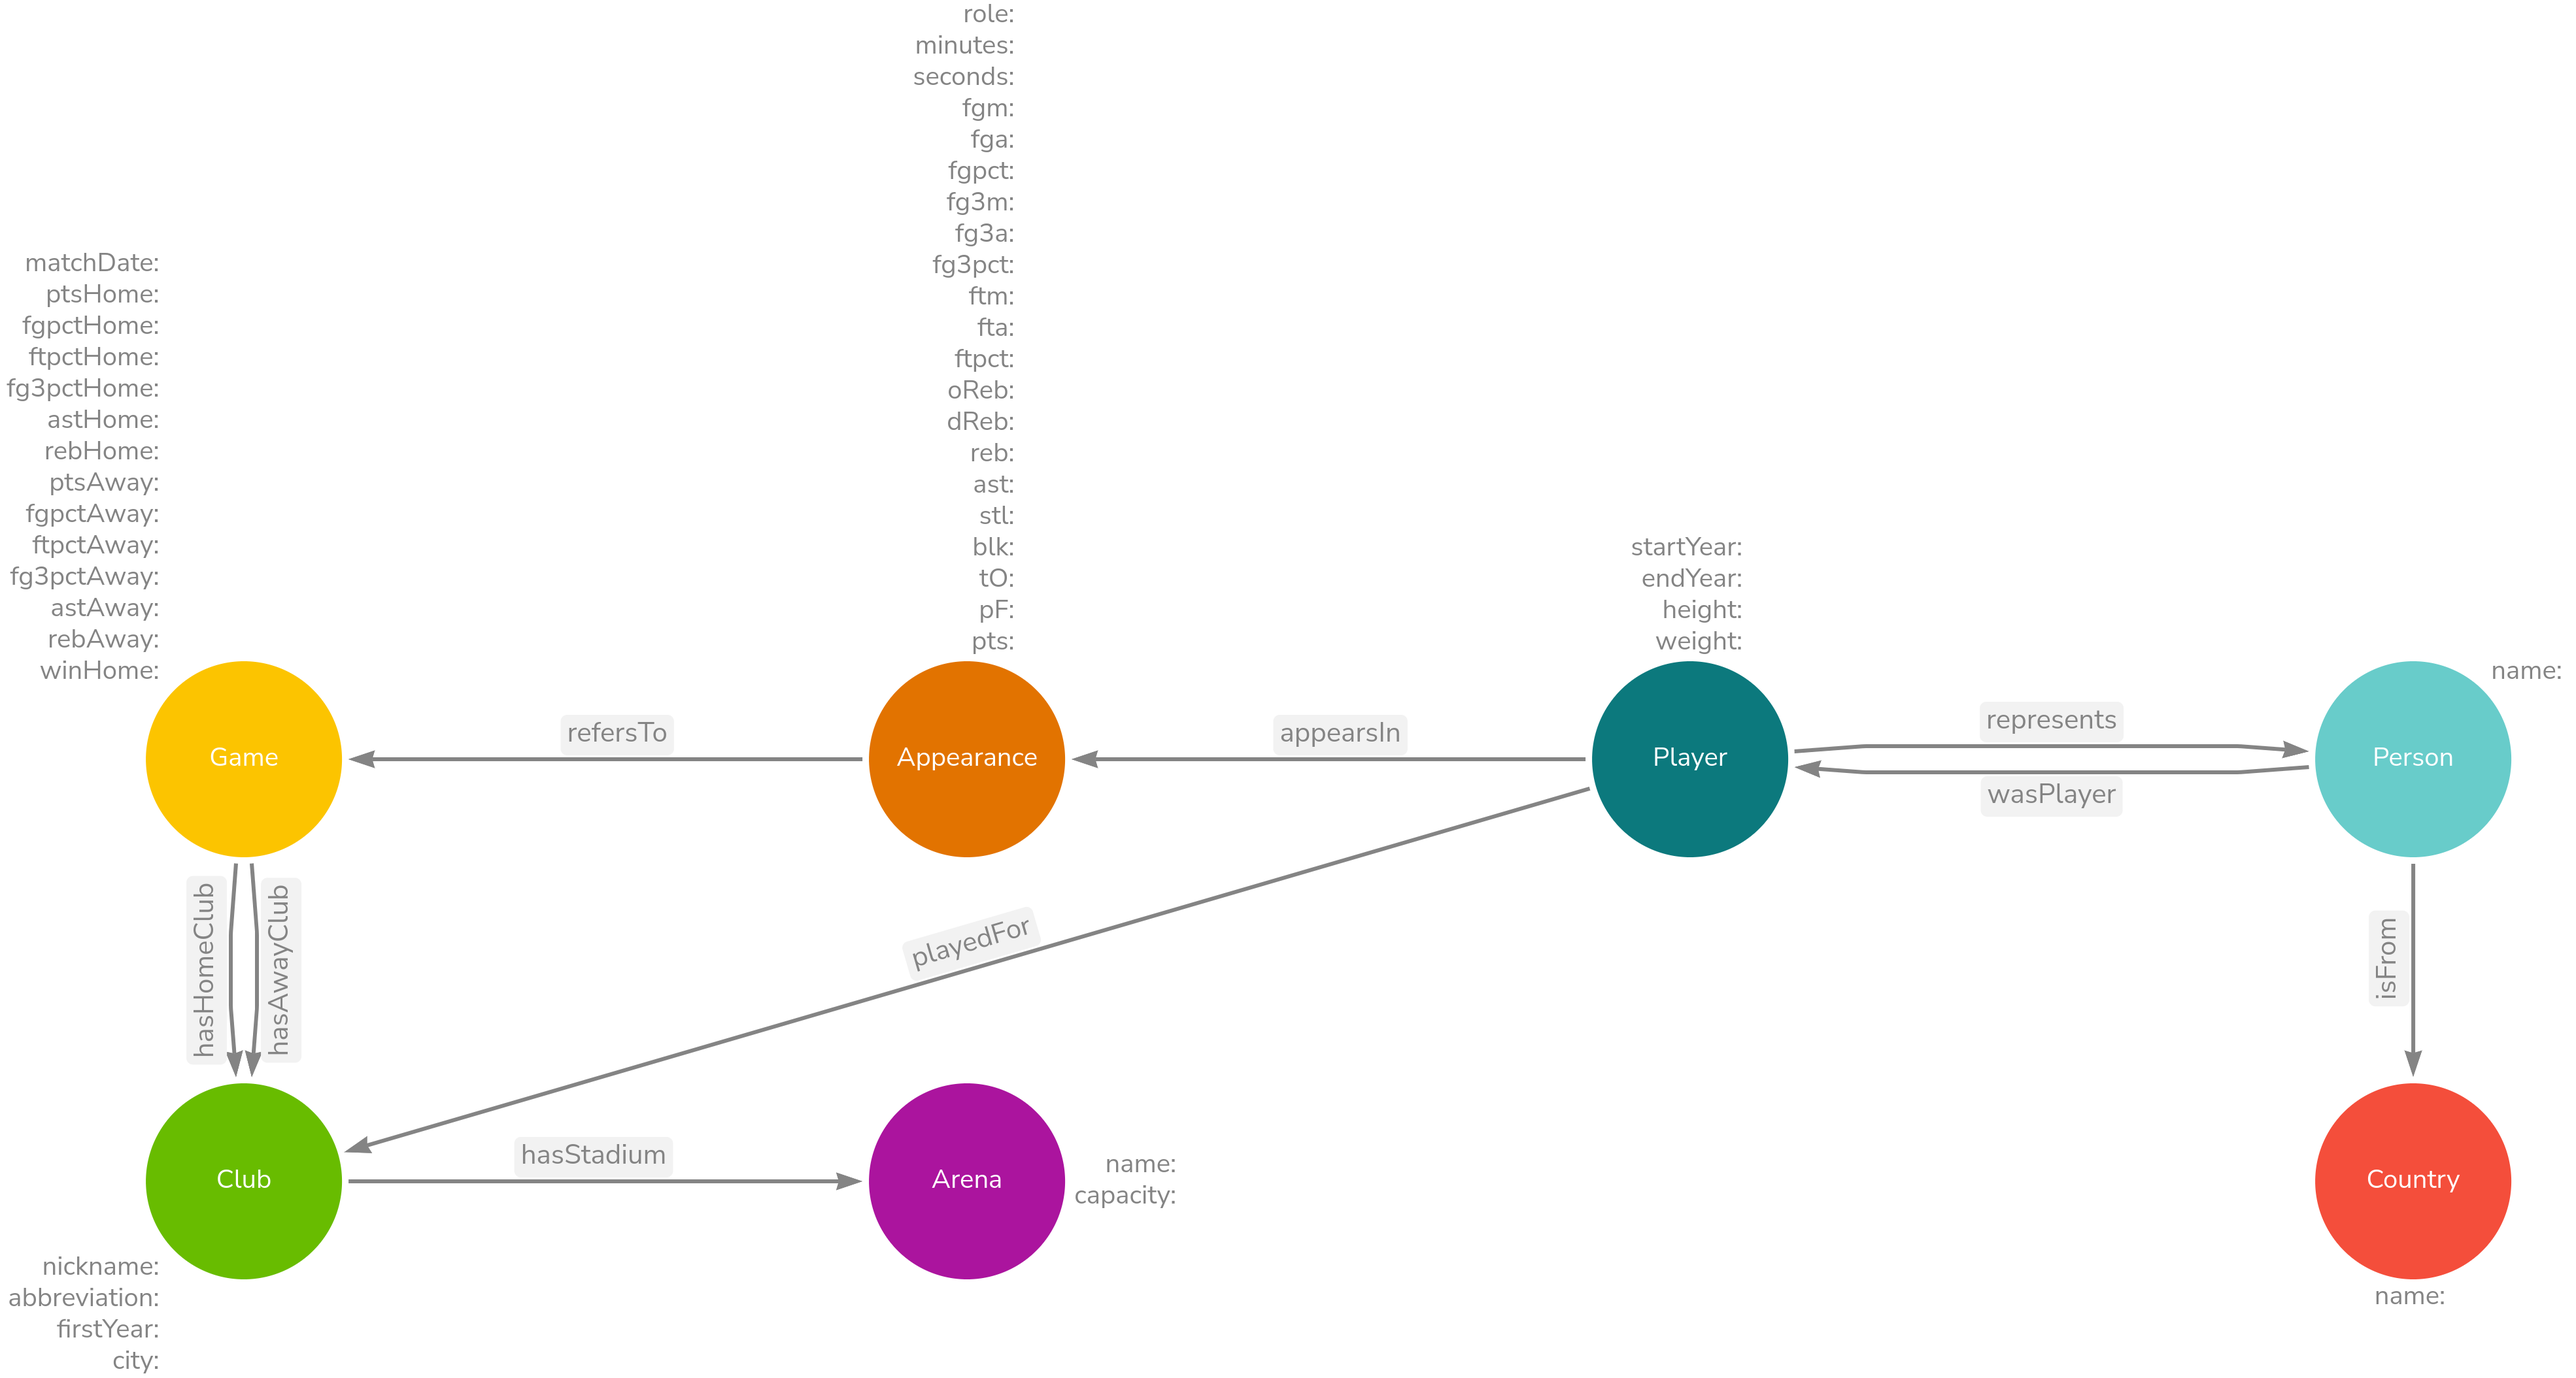
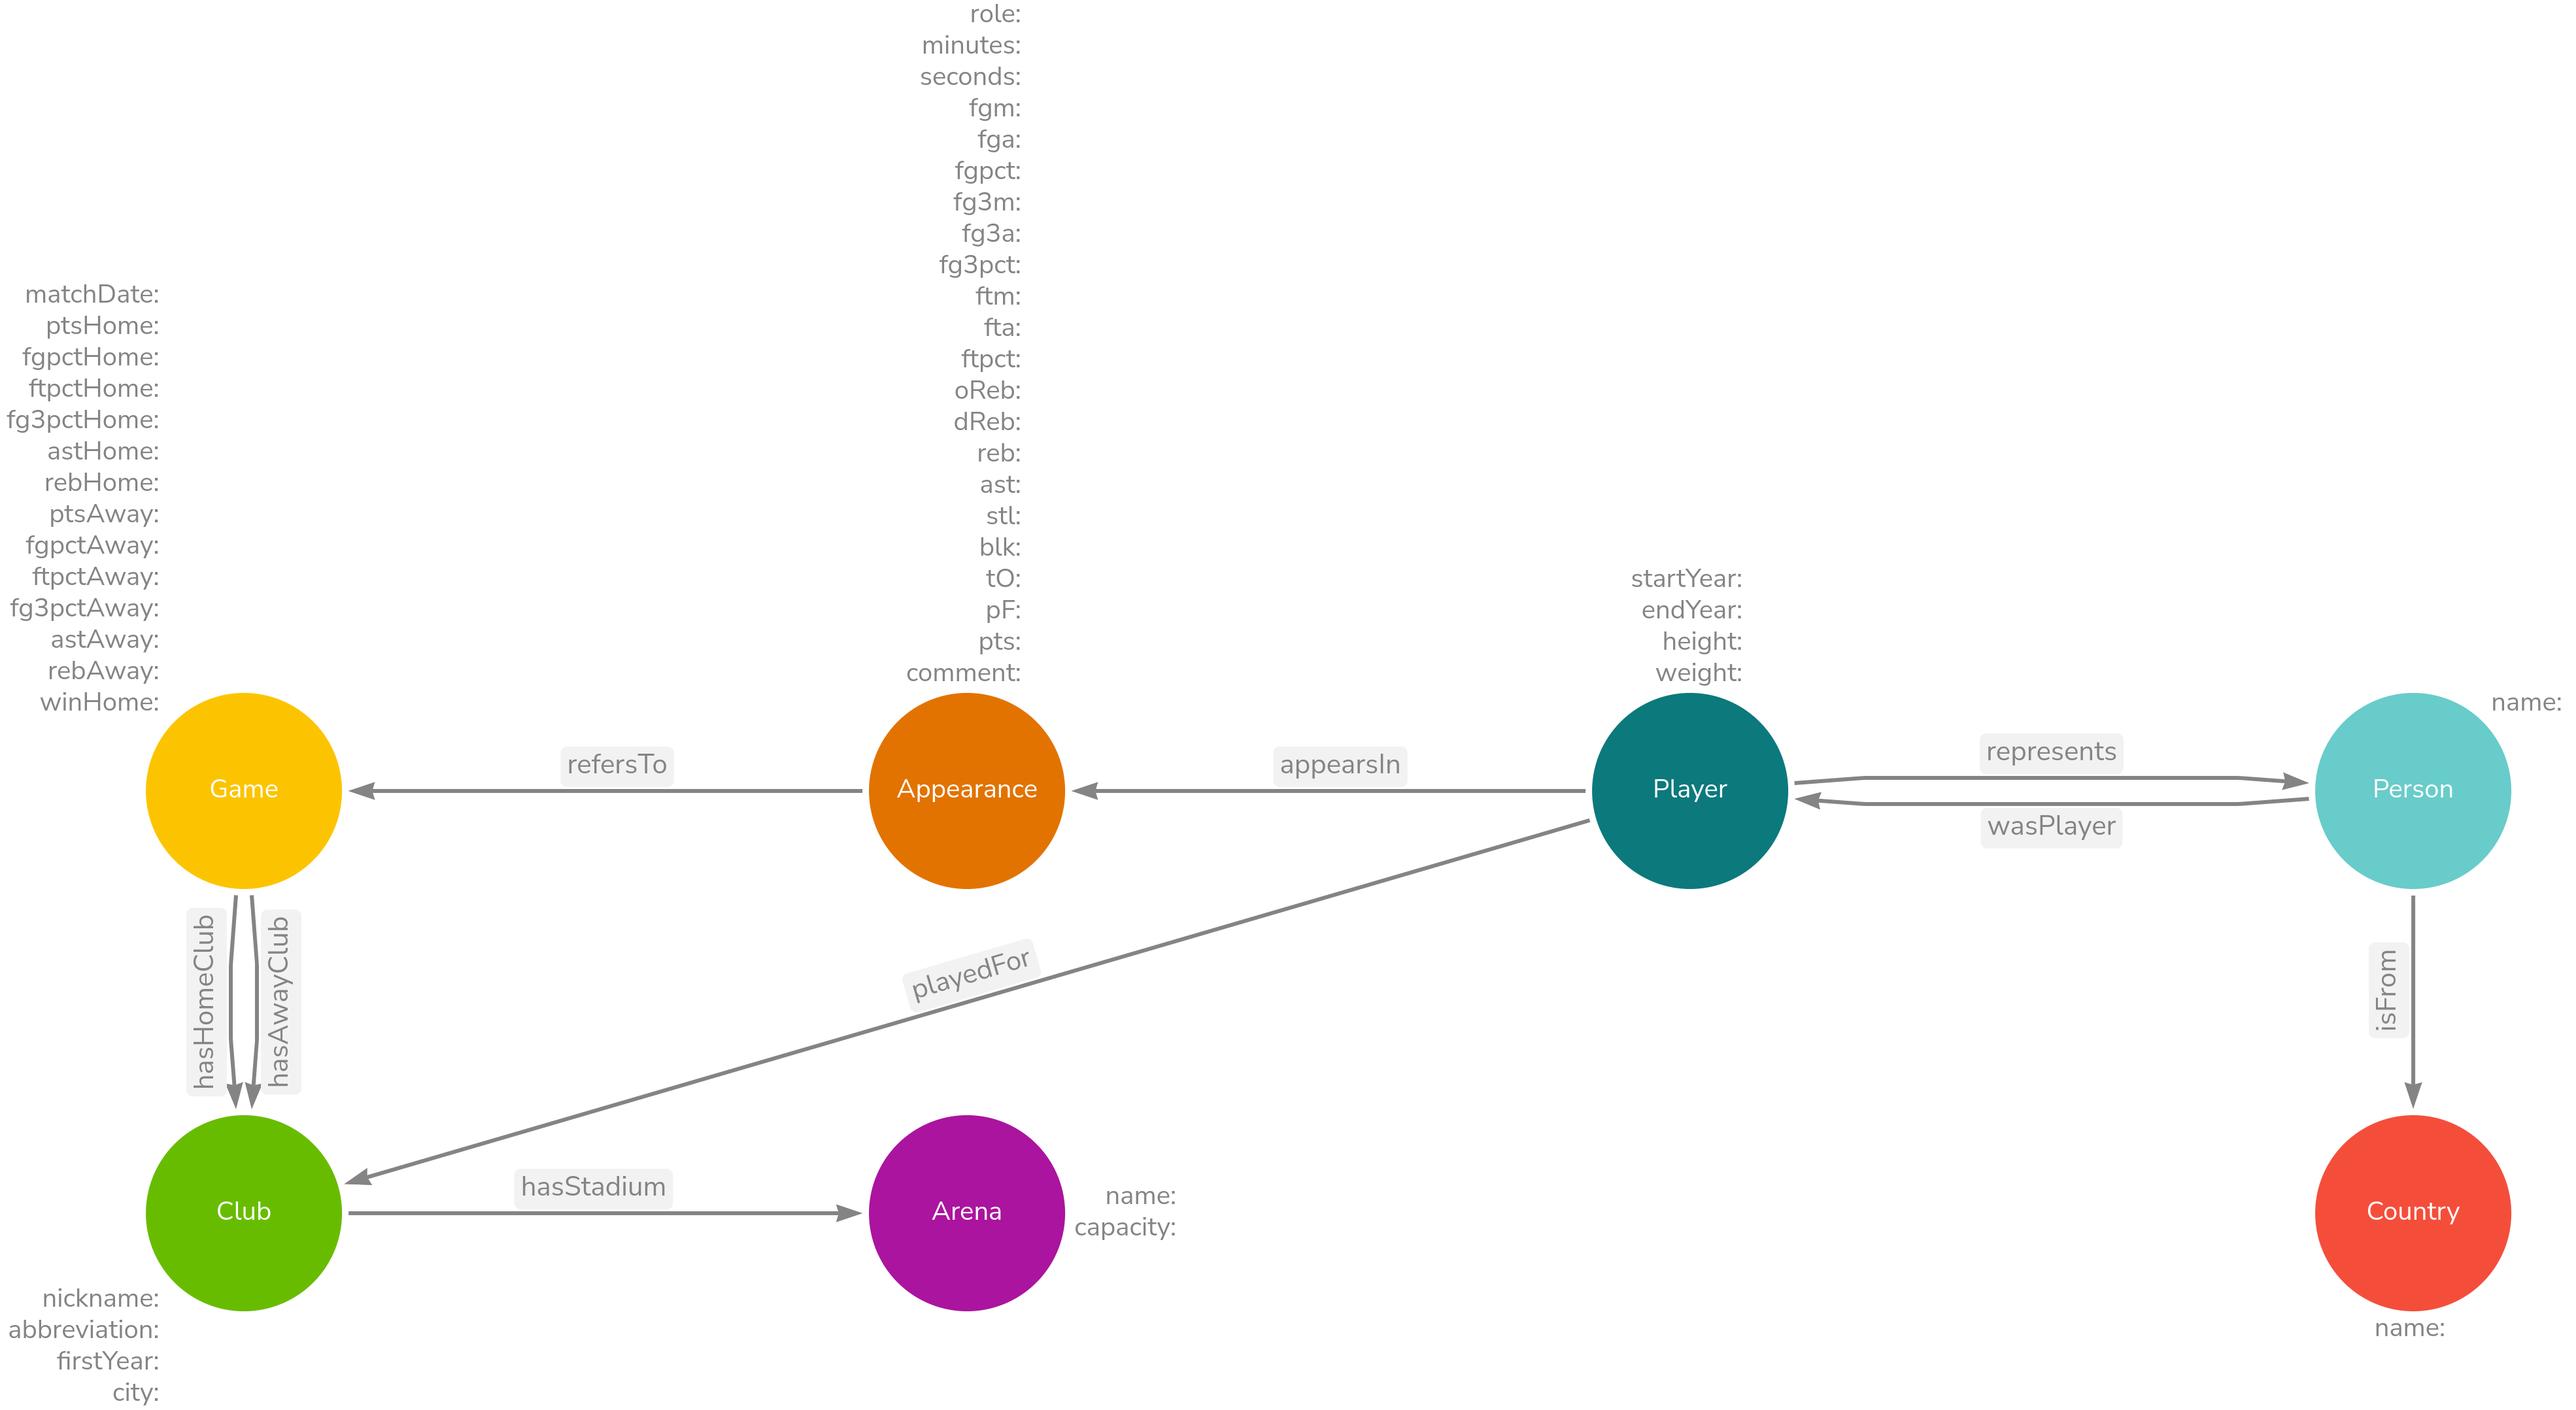
fix : allowed not playing

diff --git a/code/data_ingestion/appearance.py b/code/data_ingestion/appearance.py
@@ -35,7 +35,7 @@ game_dataframe = game_dataframe.dropna()
 print("MERGING TWO DATAFRAMES ..")
 merged_dataframe = game_dataframe.merge(game_detail_dataframe, how='left',on='GAME_ID')[
     ['GAME_ID','PLAYER_ID','SEASON','START_POSITION','MIN','FGM','FGA','FG_PCT','FG3M',
-    'FG3A','FG3_PCT','FTM','FTA','FT_PCT','OREB','DREB','REB','AST','STL','BLK','TO','PTS','PF']] 
+    'FG3A','FG3_PCT','FTM','FTA','FT_PCT','OREB','DREB','REB','AST','STL','BLK','TO','PTS','PF','COMMENT']] 
 
 # --------------------------------------------------------------------------
 # Convert to correct type columns
@@ -71,12 +71,11 @@ graph.bind("base",BASE)
 # Create triples and populate the graph
 # --------------------------------------------------------------------------
 for index,row in merged_dataframe.iterrows():
-    
-    #if the player has played
-    if(row['MIN'] != 'nan'):
-        appearance_subject_uri = URIRef(APPEARANCE + str("{}_{}_{}_{}".format(row['GAME_ID'],row['PLAYER_ID'],row['SEASON'],row['SEASON'] + 1)))
-        graph.add((appearance_subject_uri, RDF.type, BASE.Appearance))
+    appearance_subject_uri = URIRef(APPEARANCE + str("{}_{}_{}_{}".format(row['GAME_ID'],row['PLAYER_ID'],row['SEASON'],row['SEASON'] + 1)))
+    graph.add((appearance_subject_uri, RDF.type, BASE.Appearance))
 
+    #if the player has played
+    if(row['MIN'] != 'nan'):        
         #Data
         graph.add((appearance_subject_uri, BASE['role'], Literal(row['START_POSITION'],datatype = XSD.string)))
         graph.add((appearance_subject_uri, BASE['minutes'], Literal(int(row['MIN'].split(':')[0]),datatype = XSD.integer)))
@@ -99,7 +98,31 @@ for index,row in merged_dataframe.iterrows():
         graph.add((appearance_subject_uri, BASE['tO'], Literal(int(row['TO']),datatype = XSD.integer)))
         graph.add((appearance_subject_uri, BASE['pF'], Literal(int(row['PF']),datatype = XSD.integer)))
         graph.add((appearance_subject_uri, BASE['pts'], Literal(int(row['PTS']),datatype = XSD.integer)))
-
+        graph.add((appearance_subject_uri, BASE['comment'], Literal("",datatype = XSD.string)))
+    else:
+        #Data
+        graph.add((appearance_subject_uri, BASE['role'], Literal("",datatype = XSD.string)))
+        graph.add((appearance_subject_uri, BASE['minutes'], Literal(0,datatype = XSD.integer)))
+        graph.add((appearance_subject_uri, BASE['seconds'], Literal(0,datatype = XSD.integer)))
+        graph.add((appearance_subject_uri, BASE['fgm'], Literal(0,datatype = XSD.integer)))
+        graph.add((appearance_subject_uri, BASE['fga'], Literal(0,datatype = XSD.integer)))
+        graph.add((appearance_subject_uri, BASE['fgpct'], Literal(0.0,datatype = XSD.float)))
+        graph.add((appearance_subject_uri, BASE['fg3m'], Literal(0,datatype = XSD.integer)))
+        graph.add((appearance_subject_uri, BASE['fg3a'], Literal(0,datatype = XSD.integer)))
+        graph.add((appearance_subject_uri, BASE['fg3pct'], Literal(0.0,datatype = XSD.float)))
+        graph.add((appearance_subject_uri, BASE['ftm'], Literal(0,datatype = XSD.integer)))
+        graph.add((appearance_subject_uri, BASE['fta'], Literal(0,datatype = XSD.integer)))
+        graph.add((appearance_subject_uri, BASE['ftpct'], Literal(0.0,datatype = XSD.float)))
+        graph.add((appearance_subject_uri, BASE['oReb'], Literal(0,datatype = XSD.integer)))
+        graph.add((appearance_subject_uri, BASE['dReb'], Literal(0,datatype = XSD.integer)))
+        graph.add((appearance_subject_uri, BASE['reb'], Literal(0,datatype = XSD.integer)))
+        graph.add((appearance_subject_uri, BASE['ast'], Literal(0,datatype = XSD.integer)))
+        graph.add((appearance_subject_uri, BASE['stl'], Literal(0,datatype = XSD.integer)))
+        graph.add((appearance_subject_uri, BASE['blk'], Literal(0,datatype = XSD.integer)))
+        graph.add((appearance_subject_uri, BASE['tO'], Literal(0,datatype = XSD.integer)))
+        graph.add((appearance_subject_uri, BASE['pF'], Literal(0,datatype = XSD.integer)))
+        graph.add((appearance_subject_uri, BASE['pts'], Literal(0,datatype = XSD.integer)))
+        graph.add((appearance_subject_uri, BASE['comment'], Literal(row['COMMENT'],datatype = XSD.string)))
        
 # --------------------------------------------------------------------------
 # Serialize the graph
